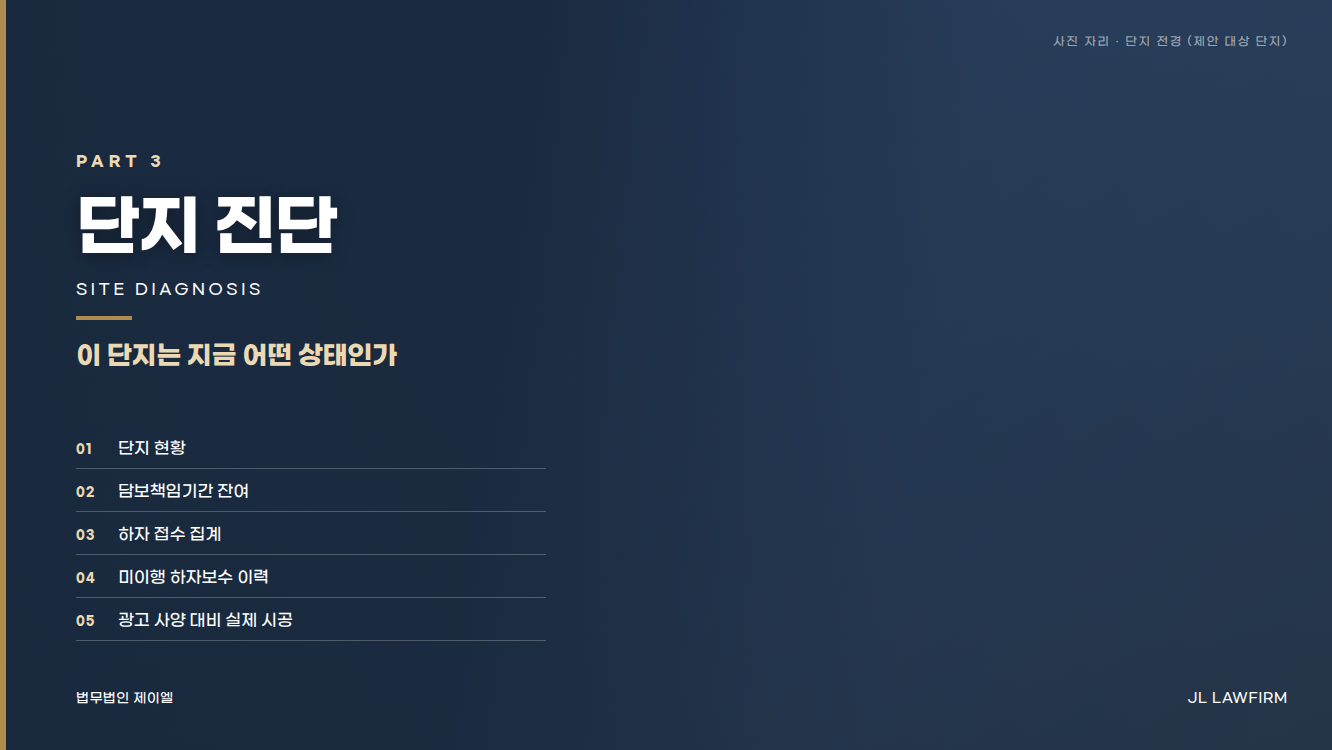
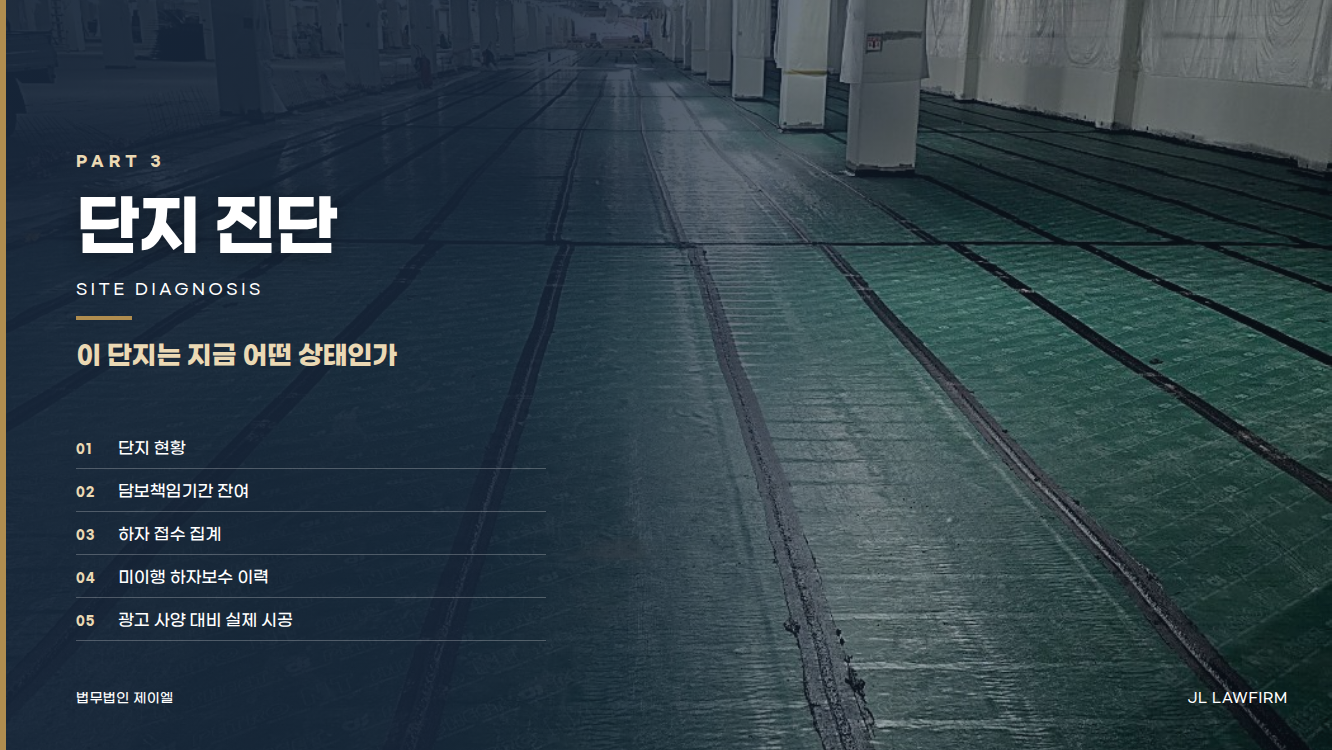
간지 1·4·6 배경 이미지 반영 · 배경 레이어 순서 버그 수정
배경이 안 보이던 원인: CSS background 축약형은 먼저 쓴 레이어가 위에 온다.
그러데이션을 먼저 써서 사진을 통째로 덮고 있었다. 사진을 위로, 그러데이션을
아래(대체용)로 내렸다. 파일이 없으면 그러데이션만 보이는 성질은 그대로다.

PART 6 이미지에 생성기 반짝임 마크가 창 하나에 찍혀 있어 지웠다. 파사드가
144px 주기로 반복되므로 세로 한 칸 위의 같은 자리를 복사해 덮었다.

사진이 들어간 간지는 '사진 자리' 안내를 지웠다.

Claude-Session: https://claude.ai/code/session_01McKVzc7RRv66NSkAtofwT1

diff --git a/template/design/D1_Divider.dc.html b/template/design/D1_Divider.dc.html
@@ -15,8 +15,8 @@
      파일이 없으면 아래 그러데이션만 보이므로 레이아웃이 깨지지 않는다.
      사진은 template/design/photos/p-part1.jpg 로 두면 그대로 들어간다. */
   .bg{position:absolute;inset:0;
-    background:linear-gradient(150deg,#385783 0%,#2A3B4F 100%),
-               url(p-part1.jpg) center/cover no-repeat;
+    background:url(p-part1.jpg) center/cover no-repeat,
+               linear-gradient(150deg,#385783 0%,#2A3B4F 100%);
     background-blend-mode:normal;}
   .bg img{width:100%;height:100%;object-fit:cover;display:block;}
   /* 글자가 얹히는 왼쪽을 어둡게 눌러 사진이 어떤 밝기든 읽히게 한다 */
@@ -52,7 +52,6 @@
   <div class="bg"></div>
   <div class="scrim"></div>
   <div class="edge"></div>
-  <div class="hint">사진 자리 · 법인 사무실 또는 변호사 집무 장면</div>
   <div class="pn">PART 1</div>
   <div class="kr">법무법인 제이엘</div>
   <div class="en">THE FIRM</div>

diff --git a/template/design/D2_Divider.dc.html b/template/design/D2_Divider.dc.html
@@ -15,8 +15,8 @@
      파일이 없으면 아래 그러데이션만 보이므로 레이아웃이 깨지지 않는다.
      사진은 template/design/photos/p-part2.jpg 로 두면 그대로 들어간다. */
   .bg{position:absolute;inset:0;
-    background:linear-gradient(150deg,#385783 0%,#2A3B4F 100%),
-               url(p-part2.jpg) center/cover no-repeat;
+    background:url(p-part2.jpg) center/cover no-repeat,
+               linear-gradient(150deg,#385783 0%,#2A3B4F 100%);
     background-blend-mode:normal;}
   .bg img{width:100%;height:100%;object-fit:cover;display:block;}
   /* 글자가 얹히는 왼쪽을 어둡게 눌러 사진이 어떤 밝기든 읽히게 한다 */
@@ -52,7 +52,6 @@
   <div class="bg"></div>
   <div class="scrim"></div>
   <div class="edge"></div>
-  <div class="hint">사진 자리 · 법전·판결문 또는 법원 외관</div>
   <div class="pn">PART 2</div>
   <div class="kr">하자소송의 구조</div>
   <div class="en">LEGAL STRUCTURE</div>

diff --git a/template/design/D3_Divider.dc.html b/template/design/D3_Divider.dc.html
@@ -15,8 +15,8 @@
      파일이 없으면 아래 그러데이션만 보이므로 레이아웃이 깨지지 않는다.
      사진은 template/design/photos/p-part3.jpg 로 두면 그대로 들어간다. */
   .bg{position:absolute;inset:0;
-    background:linear-gradient(150deg,#385783 0%,#2A3B4F 100%),
-               url(p-part3.jpg) center/cover no-repeat;
+    background:url(p-part3.jpg) center/cover no-repeat,
+               linear-gradient(150deg,#385783 0%,#2A3B4F 100%);
     background-blend-mode:normal;}
   .bg img{width:100%;height:100%;object-fit:cover;display:block;}
   /* 글자가 얹히는 왼쪽을 어둡게 눌러 사진이 어떤 밝기든 읽히게 한다 */
@@ -52,7 +52,6 @@
   <div class="bg"></div>
   <div class="scrim"></div>
   <div class="edge"></div>
-  <div class="hint">사진 자리 · 단지 전경 (제안 대상 단지)</div>
   <div class="pn">PART 3</div>
   <div class="kr">단지 진단</div>
   <div class="en">SITE DIAGNOSIS</div>

diff --git a/template/design/D5_Divider.dc.html b/template/design/D5_Divider.dc.html
@@ -15,8 +15,8 @@
      파일이 없으면 아래 그러데이션만 보이므로 레이아웃이 깨지지 않는다.
      사진은 template/design/photos/p-part5.jpg 로 두면 그대로 들어간다. */
   .bg{position:absolute;inset:0;
-    background:linear-gradient(150deg,#385783 0%,#2A3B4F 100%),
-               url(p-part5.jpg) center/cover no-repeat;
+    background:url(p-part5.jpg) center/cover no-repeat,
+               linear-gradient(150deg,#385783 0%,#2A3B4F 100%);
     background-blend-mode:normal;}
   .bg img{width:100%;height:100%;object-fit:cover;display:block;}
   /* 글자가 얹히는 왼쪽을 어둡게 눌러 사진이 어떤 밝기든 읽히게 한다 */
@@ -52,7 +52,6 @@
   <div class="bg"></div>
   <div class="scrim"></div>
   <div class="edge"></div>
-  <div class="hint">사진 자리 · 현장조사·감정 입회 장면</div>
   <div class="pn">PART 5</div>
   <div class="kr">수행 계획</div>
   <div class="en">EXECUTION PLAN</div>

diff --git a/template/design/D4_Divider.dc.html b/template/design/D4_Divider.dc.html
@@ -15,8 +15,8 @@
      파일이 없으면 아래 그러데이션만 보이므로 레이아웃이 깨지지 않는다.
      사진은 template/design/photos/p-part4.jpg 로 두면 그대로 들어간다. */
   .bg{position:absolute;inset:0;
-    background:linear-gradient(150deg,#385783 0%,#2A3B4F 100%),
-               url(p-part4.jpg) center/cover no-repeat;
+    background:url(p-part4.jpg) center/cover no-repeat,
+               linear-gradient(150deg,#385783 0%,#2A3B4F 100%);
     background-blend-mode:normal;}
   .bg img{width:100%;height:100%;object-fit:cover;display:block;}
   /* 글자가 얹히는 왼쪽을 어둡게 눌러 사진이 어떤 밝기든 읽히게 한다 */
@@ -52,7 +52,6 @@
   <div class="bg"></div>
   <div class="scrim"></div>
   <div class="edge"></div>
-  <div class="hint">사진 자리 · 하자 현장 근접 사진</div>
   <div class="pn">PART 4</div>
   <div class="kr">하자 발굴</div>
   <div class="en">DEFECT DISCOVERY</div>

diff --git a/template/design/D7_Divider.dc.html b/template/design/D7_Divider.dc.html
@@ -15,8 +15,8 @@
      파일이 없으면 아래 그러데이션만 보이므로 레이아웃이 깨지지 않는다.
      사진은 template/design/photos/p-part7.jpg 로 두면 그대로 들어간다. */
   .bg{position:absolute;inset:0;
-    background:linear-gradient(150deg,#385783 0%,#2A3B4F 100%),
-               url(p-part7.jpg) center/cover no-repeat;
+    background:url(p-part7.jpg) center/cover no-repeat,
+               linear-gradient(150deg,#385783 0%,#2A3B4F 100%);
     background-blend-mode:normal;}
   .bg img{width:100%;height:100%;object-fit:cover;display:block;}
   /* 글자가 얹히는 왼쪽을 어둡게 눌러 사진이 어떤 밝기든 읽히게 한다 */
@@ -52,7 +52,6 @@
   <div class="bg"></div>
   <div class="scrim"></div>
   <div class="edge"></div>
-  <div class="hint">사진 자리 · 단지 전경 또는 입대의 회의</div>
   <div class="pn">PART 7</div>
   <div class="kr">마무리</div>
   <div class="en">NEXT STEPS</div>

diff --git a/template/design/D6_Divider.dc.html b/template/design/D6_Divider.dc.html
@@ -15,8 +15,8 @@
      파일이 없으면 아래 그러데이션만 보이므로 레이아웃이 깨지지 않는다.
      사진은 template/design/photos/p-part6.jpg 로 두면 그대로 들어간다. */
   .bg{position:absolute;inset:0;
-    background:linear-gradient(150deg,#385783 0%,#2A3B4F 100%),
-               url(p-part6.jpg) center/cover no-repeat;
+    background:url(p-part6.jpg) center/cover no-repeat,
+               linear-gradient(150deg,#385783 0%,#2A3B4F 100%);
     background-blend-mode:normal;}
   .bg img{width:100%;height:100%;object-fit:cover;display:block;}
   /* 글자가 얹히는 왼쪽을 어둡게 눌러 사진이 어떤 밝기든 읽히게 한다 */
@@ -52,7 +52,6 @@
   <div class="bg"></div>
   <div class="scrim"></div>
   <div class="edge"></div>
-  <div class="hint">사진 자리 · 계약·상담 장면</div>
   <div class="pn">PART 6</div>
   <div class="kr">비용과 조건</div>
   <div class="en">COST & TERMS</div>

diff --git a/template/design/Main.dc.html b/template/design/Main.dc.html
@@ -13,8 +13,8 @@
      template/design/photos/p-cover.jpg 로 두면 그대로 들어가고,
      없으면 아래 브랜드 그러데이션만 보인다. */
   .bg{position:absolute;inset:0;
-    background:linear-gradient(148deg,#385783 0%,#2A3B4F 62%,#223D5B 100%),
-               url(p-cover.jpg) center/cover no-repeat;}
+    background:url(p-cover.jpg) center/cover no-repeat,
+               linear-gradient(148deg,#385783 0%,#2A3B4F 62%,#223D5B 100%);}
   /* 아래에서 위로 어둡게 눌러 어떤 사진이 와도 글자가 읽히게 한다 */
   .scrim{position:absolute;inset:0;
     background:linear-gradient(0deg,rgba(20,33,52,.96) 0%,rgba(20,33,52,.88) 32%,
@@ -52,7 +52,6 @@
 <body>
   <div class="bg"></div>
   <div class="scrim"></div>
-  <div class="hint">사진 자리 · 단지 전경 (가로 16:9 권장) · photos/p-cover.jpg</div>
   <img class="logo" src="jl-logo.png">
 
   <div class="eyebrow">JL LAWFIRM</div>
